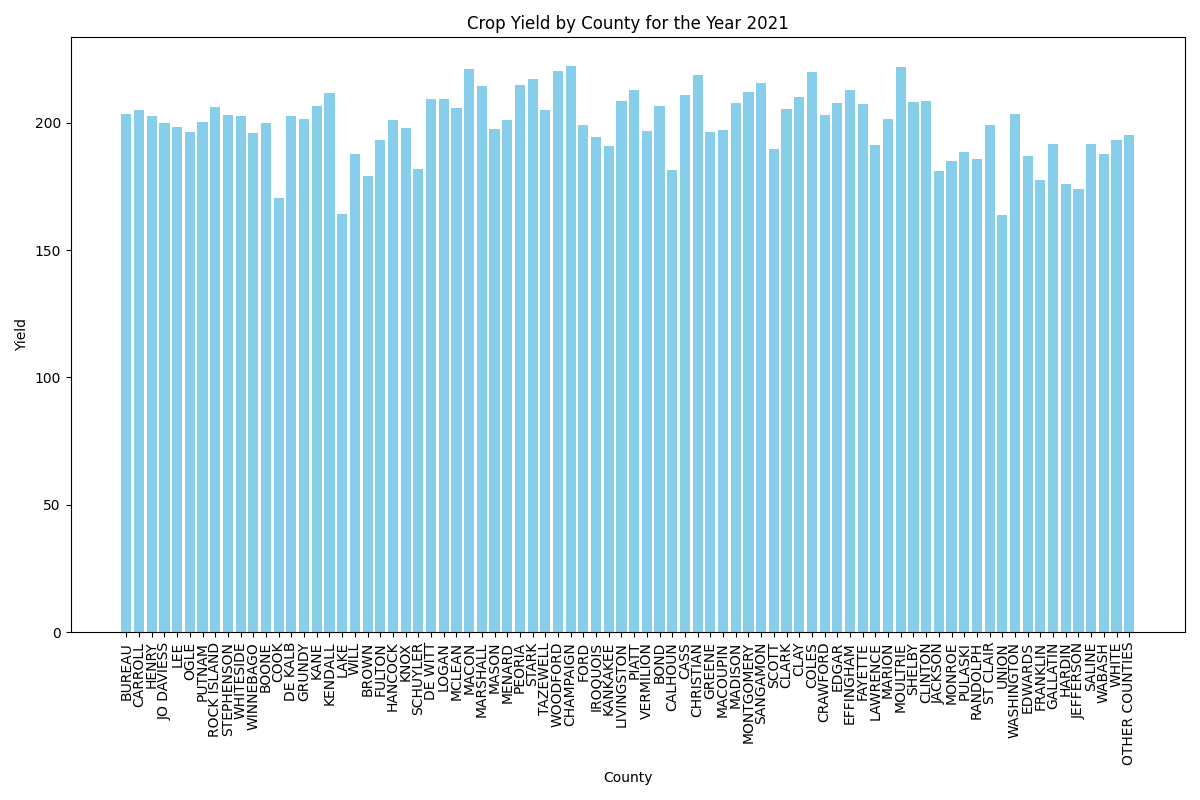
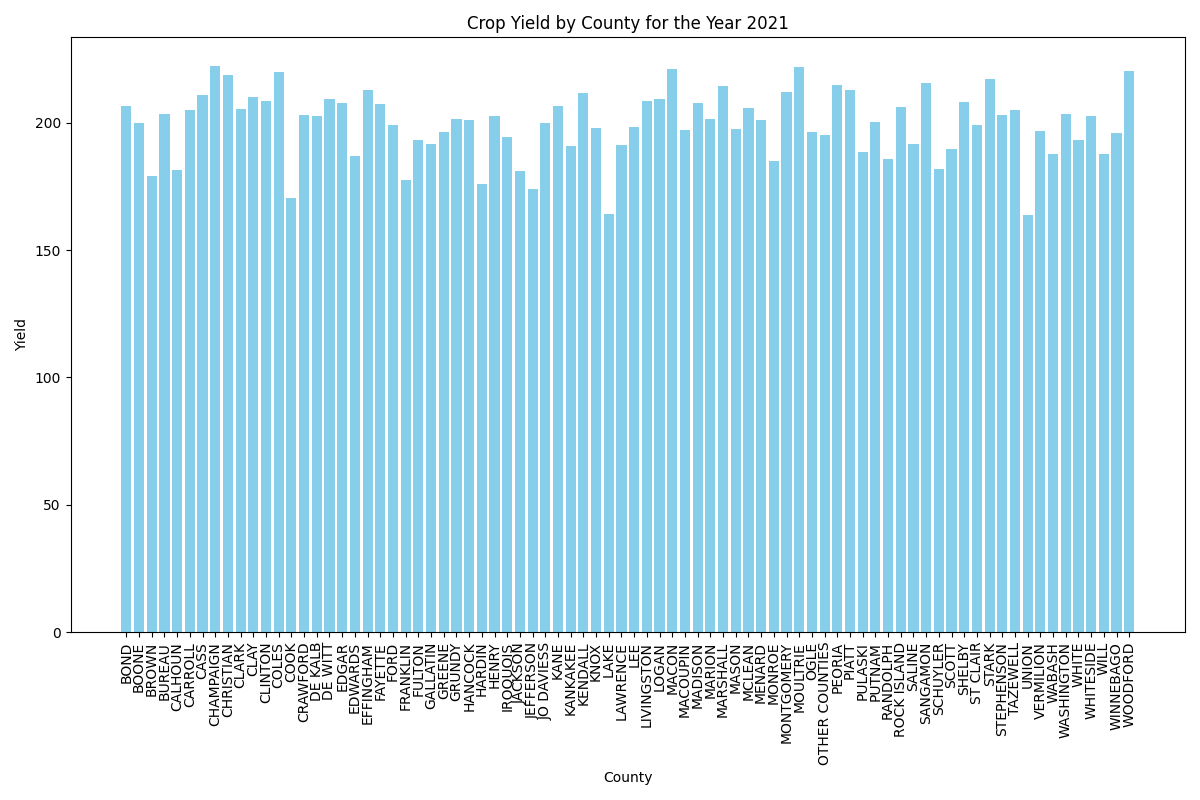
visualize crops

Changed region(s): [[0.0925, 0.7812, 0.9558, 0.9375], [0.0925, 0.0625, 0.9558, 0.2812]]

diff --git a/scripts/visualize_crop_yield.py b/scripts/visualize_crop_yield.py
@@ -12,6 +12,8 @@ data.dropna(subset=['yield'], inplace=True)
 # Filter data for the year 2021
 data_2021 = data[data['year'] == 2021]
 
+# Sort data by county alphabetically
+data_2021 = data_2021.sort_values(by='county')
 # Plot the crop yield data for 2021
 plt.figure(figsize=(12, 8))
 plt.bar(data_2021['county'], data_2021['yield'], color='skyblue')
